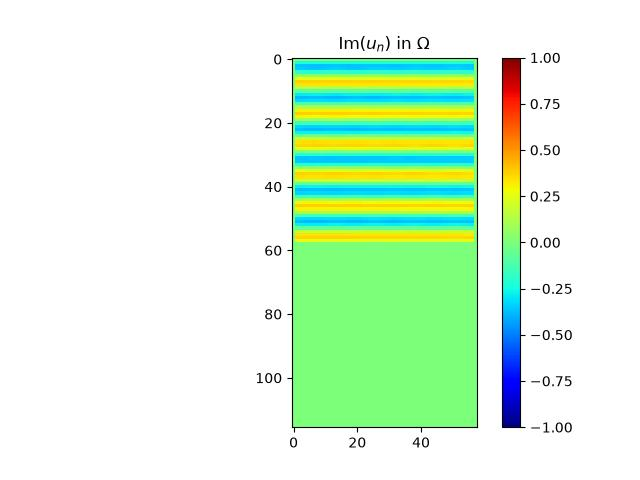
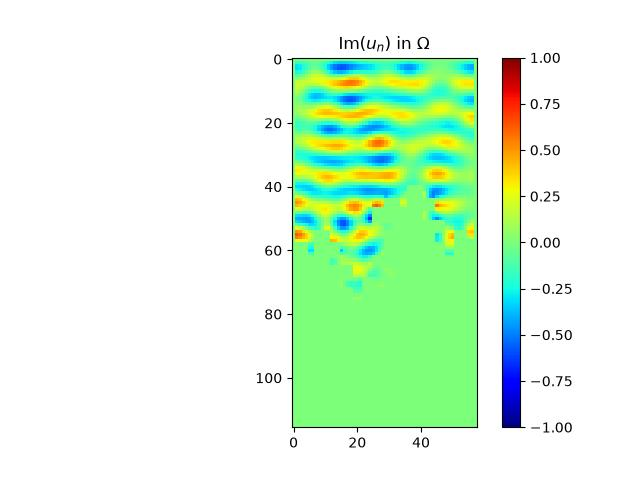
ajout du niveau 2 de fractal

Changed region(s): [[0.4375, 0.125, 0.75, 0.625]]

diff --git a/demo_control_polycopie2024.py b/demo_control_polycopie2024.py
@@ -334,7 +334,7 @@ if __name__ == '__main__':
 
     N = int(10*wavenumber / (2*numpy.pi)) # number of points along x-axis
     M = 2 * N  # number of points along y-axis
-    level = 0 # level of the fractal
+    level = 2 # level of the fractal
     spacestep = 1.0 / N  # mesh size
     # 1/N = 2pi/5k
     # ----------------------------------------------------------------------
@@ -423,42 +423,43 @@ if __name__ == '__main__':
     freqs = numpy.round(freqs, 8)
     #sans chi
     # energy = compute_energy_response(domain_omega, spacestep, (250, 2000), npoints, f, f_dir, f_neu, f_rob, beta_pde, alpha_pde, alpha_dir, beta_neu, beta_rob, 0*chi, alphas)
-    energy_chi = compute_energy_response(domain_omega, spacestep, (250, 2000), npoints, f, f_dir, f_neu, f_rob, beta_pde, alpha_pde, alpha_dir, beta_neu, beta_rob,0*chi0, alphas)
+    #energy_chi = compute_energy_response(domain_omega, spacestep, (250, 2000), npoints, f, f_dir, f_neu, f_rob, beta_pde, alpha_pde, alpha_dir, beta_neu, beta_rob,0*chi0, alphas)
     # changement du signe des alphas pour avoir la même convention que le cours 
     #alphas = -alphas 
-    max_freqs, max_energies = recherche_max(energy_chi, freqs, 5)
-    indexes = [freqs.tolist().index(max_freqs[i]) for i in range(len(max_freqs))]
-    alphas_max = [alphas[i] for i in indexes]
+    #max_freqs, max_energies = recherche_max(energy_chi, freqs, 5)
+    #indexes = [freqs.tolist().index(max_freqs[i]) for i in range(len(max_freqs))]
+    #alphas_max = [alphas[i] for i in indexes]
 
 
-    chi, energy, u, grad = our_optimization_procedure_multiple(domain_omega, spacestep, [2*numpy.pi*freq/340.0 for freq in max_freqs], f, f_dir, f_neu, f_rob,
-                        beta_pde, alpha_pde, alpha_dir, beta_neu, beta_rob, alpha_rob,
-                        alphas_max, mu, chi, V_obj, numb_iter=60, normaliser=True)
+    # chi, energy, u, grad = our_optimization_procedure_multiple(domain_omega, spacestep, [2*numpy.pi*freq/340.0 for freq in max_freqs], f, f_dir, f_neu, f_rob,
+    #                     beta_pde, alpha_pde, alpha_dir, beta_neu, beta_rob, alpha_rob,
+    #                     alphas_max, mu, chi, V_obj, numb_iter=60, normaliser=True)
     
-    energy_optimised = compute_energy_response(domain_omega, spacestep, (250, 2000), npoints, f, f_dir, f_neu, f_rob, beta_pde, alpha_pde, alpha_dir, beta_neu, beta_rob, chi, alphas)
+    # energy_optimised = compute_energy_response(domain_omega, spacestep, (250, 2000), npoints, f, f_dir, f_neu, f_rob, beta_pde, alpha_pde, alpha_dir, beta_neu, beta_rob, chi, alphas)
 
-    energy_chi = compute_energy_response(domain_omega, spacestep, (250, 2000), npoints, f, f_dir, f_neu, f_rob, beta_pde, alpha_pde, alpha_dir, beta_neu, beta_rob, chi0, alphas)
+    # energy_chi = compute_energy_response(domain_omega, spacestep, (250, 2000), npoints, f, f_dir, f_neu, f_rob, beta_pde, alpha_pde, alpha_dir, beta_neu, beta_rob, chi0, alphas)
 
     chi_rand, _energy, u, grad = our_optimization_procedure(domain_omega, spacestep, wavenumber, f, f_dir, f_neu, f_rob,
                         beta_pde, alpha_pde, alpha_dir, beta_neu, beta_rob, alpha_rob,
                         Alpha, mu, chi0.copy(), V_obj)
-    energy = compute_energy_response(domain_omega, spacestep, (250, 2000), npoints, f, f_dir, f_neu, f_rob, beta_pde, alpha_pde, alpha_dir, beta_neu, beta_rob, chi_rand, alphas)
+    
+    # energy = compute_energy_response(domain_omega, spacestep, (250, 2000), npoints, f, f_dir, f_neu, f_rob, beta_pde, alpha_pde, alpha_dir, beta_neu, beta_rob, chi_rand, alphas)
 
-    #Plotting the energy response
-    matplotlib.pyplot.figure()
-    matplotlib.pyplot.plot(freqs, energy, label="optimisation sur la fréquence 2000Hz", color='blue')
-    matplotlib.pyplot.plot(freqs, energy_optimised, label="optimisation plusieurs fréquences", color='red')
-    matplotlib.pyplot.plot(freqs, energy_chi, label="pas d'optimisation", color='green')
-    matplotlib.pyplot.legend()
-    matplotlib.pyplot.xlabel('Frequency (Hz)')
-    matplotlib.pyplot.ylabel('Energy')
-    matplotlib.pyplot.yscale('log')
-    matplotlib.pyplot.title('Energy Response')
-    matplotlib.pyplot.grid()
-    matplotlib.pyplot.show()
+    # #Plotting the energy response
+    # matplotlib.pyplot.figure()
+    # matplotlib.pyplot.plot(freqs, energy, label="optimisation sur la fréquence 2000Hz", color='blue')
+    # matplotlib.pyplot.plot(freqs, energy_optimised, label="optimisation plusieurs fréquences", color='red')
+    # matplotlib.pyplot.plot(freqs, energy_chi, label="pas d'optimisation", color='green')
+    # matplotlib.pyplot.legend()
+    # matplotlib.pyplot.xlabel('Frequency (Hz)')
+    # matplotlib.pyplot.ylabel('Energy')
+    # matplotlib.pyplot.yscale('log')
+    # matplotlib.pyplot.title('Energy Response')
+    # matplotlib.pyplot.grid()
+    # matplotlib.pyplot.show()
 
 
-    chin = chi.copy()
+    chin = chi_rand.copy()
     un = u.copy()
 
 
@@ -467,6 +468,6 @@ if __name__ == '__main__':
     postprocessing._plot_controled_solution(un, chin)
     err = un - u0
     postprocessing._plot_error(err)
-    postprocessing._plot_energy_history(energy)
+    postprocessing._plot_energy_history(_energy)
 
     print('End.')
